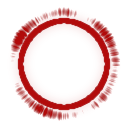
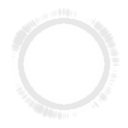
updated SGScript, fixed color parsing on draw() call

Changed region(s): [[0.0625, 0.0625, 0.9375, 0.9375]]

diff --git a/src/ss_render.c b/src/ss_render.c
@@ -832,7 +832,11 @@ uint32_t col4f_pack( float* col )
 	uint32_t ir = r * 255, ig = g * 255, ib = b * 255, ia = a * 255;
 	ir = MAX( 0, MIN( 255, ir ) ); ig = MAX( 0, MIN( 255, ig ) );
 	ib = MAX( 0, MIN( 255, ib ) ); ia = MAX( 0, MIN( 255, ia ) );
+#ifdef SS_USED3D
+	return D3DCOLOR_ARGB( ia, ir, ig, ib );
+#else
 	return ir | (ig<<8) | (ib<<16) | (ia<<24);
+#endif
 #undef MIN
 #undef MAX
 }
